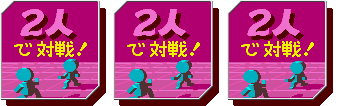
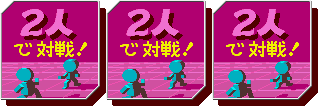
모드 초이스 모드 때깔입힘

diff --git a/mode_choose_mode.py b/mode_choose_mode.py
@@ -76,16 +76,18 @@ def draw():
     clear_canvas()
     image1.clip_composite_draw(0, 0, 900, 507, 0, '', 600, 300, 1200, 600)
     # vs.clip_composite_draw(0, 0, 2500, 2500, 0, '', 600, 300, 200, 200)
-    single_image.clip_composite_draw(0, 0, single_image.w, single_image.h, 0, '', 300, 300,
-                                     single_image.w, single_image.h)
-    multi_image.clip_composite_draw(0, 0, multi_image.w, multi_image.h, 0, '', 900, 300,
-                                     multi_image.w, multi_image.h)
+    single_image.clip_composite_draw(int(naruto_frame)*single_image.w//3, 0, single_image.w//3, single_image.h,
+                                     0, '', 400, 300,
+                                     single_image.w//3*2, single_image.h*2)
+    multi_image.clip_composite_draw(int(naruto_frame)*multi_image.w//3, 0, multi_image.w//3, multi_image.h,
+                                    0, '', 800, 300,
+                                     multi_image.w//3*2, multi_image.h*2)
     if mode_choose == '1p':
-        hand.clip_composite_draw(0, 0, hand.w, hand.h, 0, '', 300, 300,
-                                        hand.w, hand.h)
+        hand.clip_composite_draw(0, 0, hand.w, hand.h, 0, '', 420, 430+naruto_frame*3,
+                                        hand.w*2.5, hand.h*2.5)
     elif mode_choose == '2p':
-        hand.clip_composite_draw(0, 0, hand.w, hand.h, 0, '', 900, 300,
-                                 hand.w, hand.h)
+        hand.clip_composite_draw(0, 0, hand.w, hand.h, 0, '', 820, 430+naruto_frame*3,
+                                 hand.w*2.5, hand.h*2.5)
     # dir_image.clip_composite_draw(0, 0, dir_image.w, dir_image.h, 0, '', 300 + 160, 370, dir_image.w, dir_image.h)
     # dir_image.clip_composite_draw(0, 0, dir_image.w, dir_image.h, 0, 'h', 300 - 160, 370, dir_image.w, dir_image.h)
     # character_back.clip_composite_draw(0, 0, 64, 76, 0, '', 900, 300, 340, 430)
@@ -119,7 +121,7 @@ def draw():
 
 def update():
     global naruto_frame, sasuke_frame, itachi_frame, space_frame, space_up, dup_wait_time, dup_on
-    # naruto_frame = (naruto_frame + 6 * game_framework.frame_time) % 6
+    naruto_frame = (naruto_frame + 3 * game_framework.frame_time) % 3
     # sasuke_frame = (sasuke_frame + 6 * game_framework.frame_time) % 6
     # itachi_frame = (itachi_frame + 4 * game_framework.frame_time) % 4
     space_frame = space_frame + 10 * game_framework.frame_time
